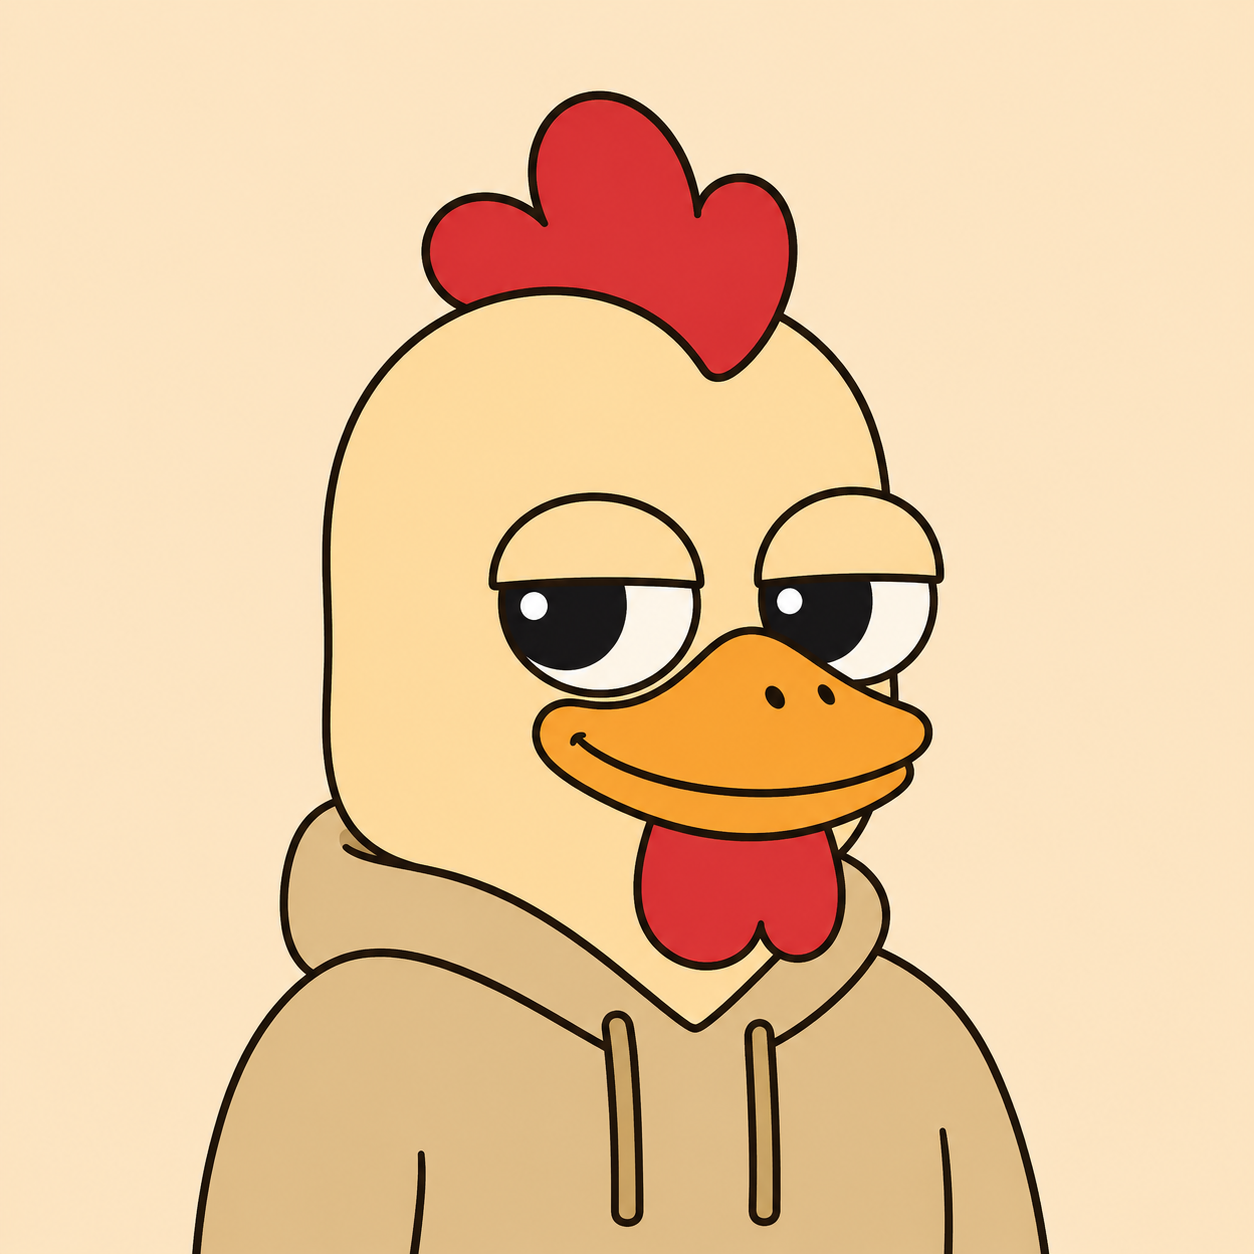
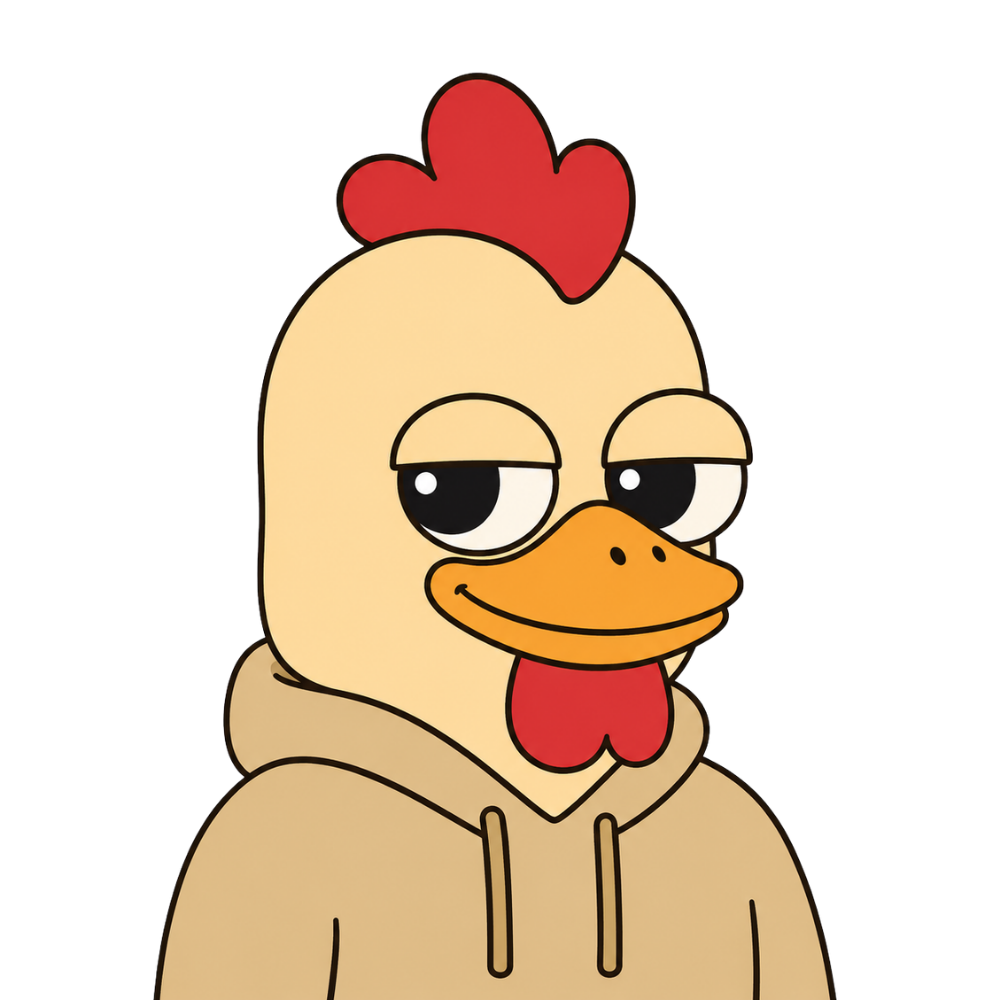
Hero mascot: transparent-bg character, larger, flush with card bottom

diff --git a/moonpad/app/page.tsx b/moonpad/app/page.tsx
@@ -33,16 +33,16 @@ export default function HomePage() {
           </Link>
         </div>
         <div
-          className="pointer-events-none absolute -bottom-10 right-4 hidden select-none sm:block md:right-10"
+          className="pointer-events-none absolute bottom-0 right-4 hidden select-none sm:block md:right-12"
           aria-hidden
         >
           <Image
             src="/character.png"
             alt=""
-            width={200}
-            height={200}
+            width={280}
+            height={280}
             priority
-            className="rotate-3 rounded-3xl border border-coop-straw/60 shadow-xl shadow-coop-ink/10 dark:border-coop-700"
+            className="drop-shadow-lg"
           />
         </div>
       </section>